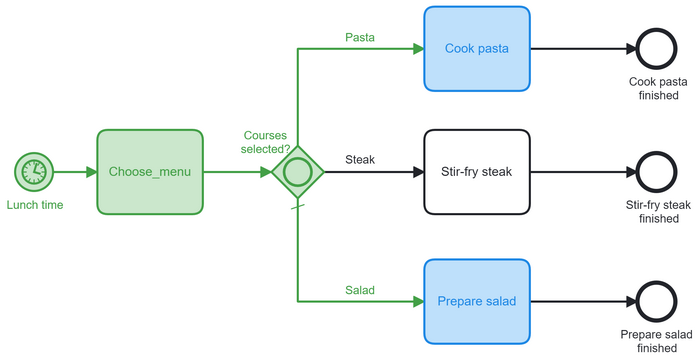
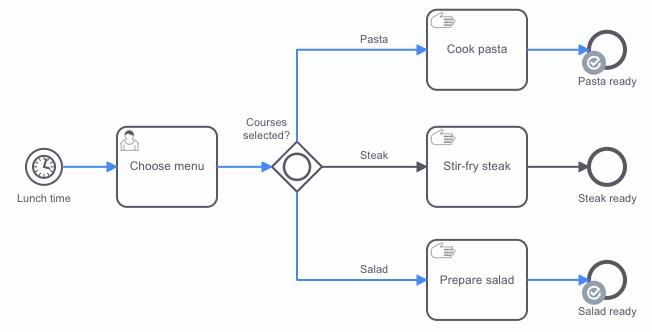
fix(docs): remove default from main or gateway example
The main example for the Inclusive (OR) Gateway should not have a
default marker to start simple. The default flow is introduced later in
the document.

The examples showing the behavior are screenshots taken from Operate.

Note that this commit also adds the pre-source of the image to the
`media-pre-src` folder. This makes it easier to make changes to the
image without having to remodel the process in Camunda Modeler.

Changed region(s): [[0.0, 0.0, 1.0, 0.994], [0.7975, 0.3916, 0.8282, 0.4217], [0.7975, 0.0301, 0.8282, 0.0602]]

diff --git a/docs/components/modeler/bpmn/inclusive-gateways/inclusive-gateways.md b/docs/components/modeler/bpmn/inclusive-gateways/inclusive-gateways.md
@@ -12,7 +12,7 @@ Currently, Camunda Platform 8 only supports the diverging (i.e. splitting, forki
 
 The inclusive gateway (or OR-gateway) allows for making multiple decisions based on data (i.e. on process instance variables).
 
-![A process model to prepare lunch at lunchtime can use an inclusive gateway to decide which steps to take to prepare the different lunch components, e.g. cook pasta, stir-fry steak, and/or prepare salad.](assets/inclusive-gateway.png)
+![A process model to prepare lunch at lunchtime can use an inclusive gateway to decide which steps to take to prepare the different lunch components, e.g. cook pasta,stir-fry steak, prepare salad, or any combination of these.](assets/inclusive-gateway.png)
 
 If an inclusive gateway has multiple outgoing sequence flows, all sequence flows must have a condition to define when the flow is taken. Optionally, one of the sequence flows can be marked as the default flow. If the inclusive gateway only has one outgoing sequence flow, then it does not need to have a condition.
 
